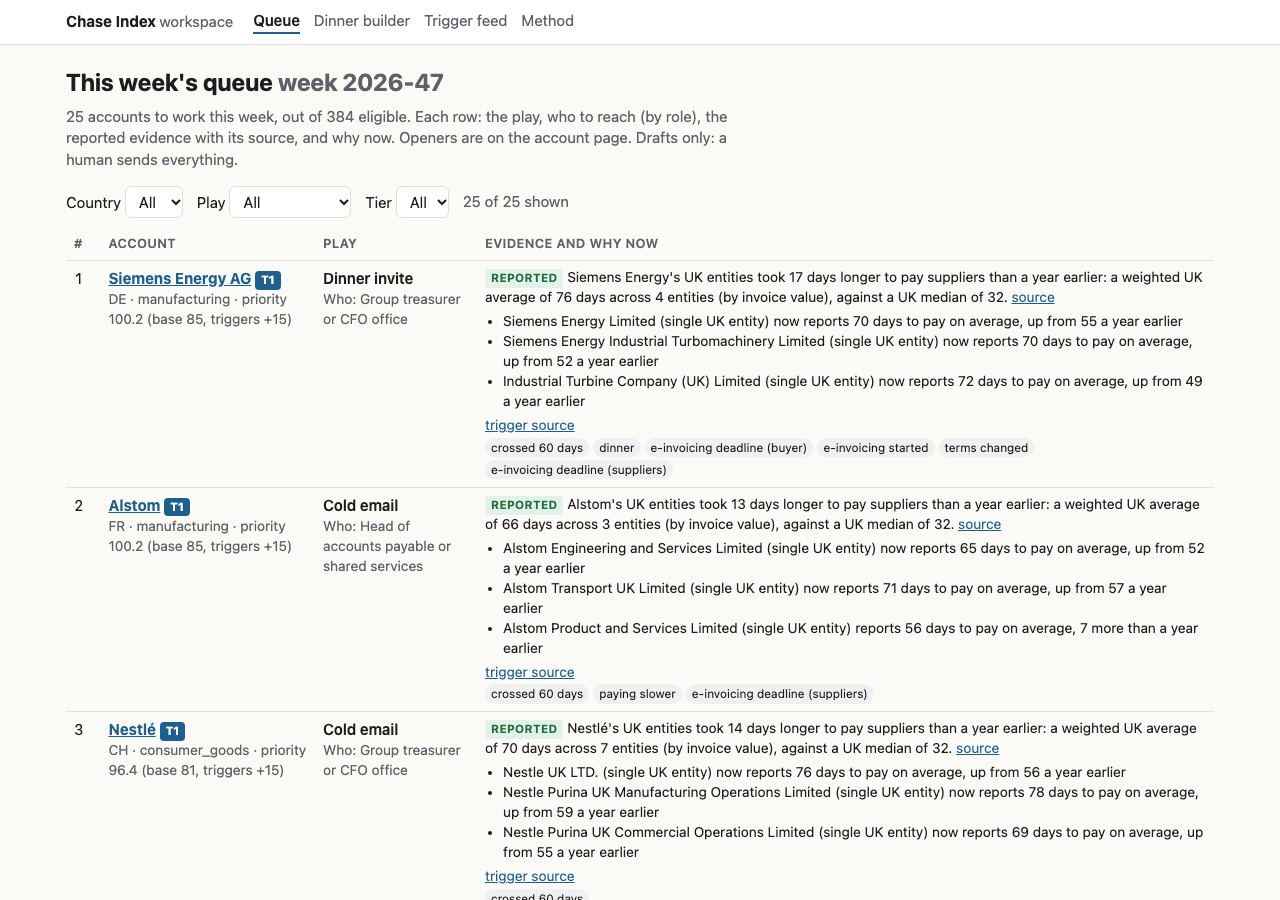
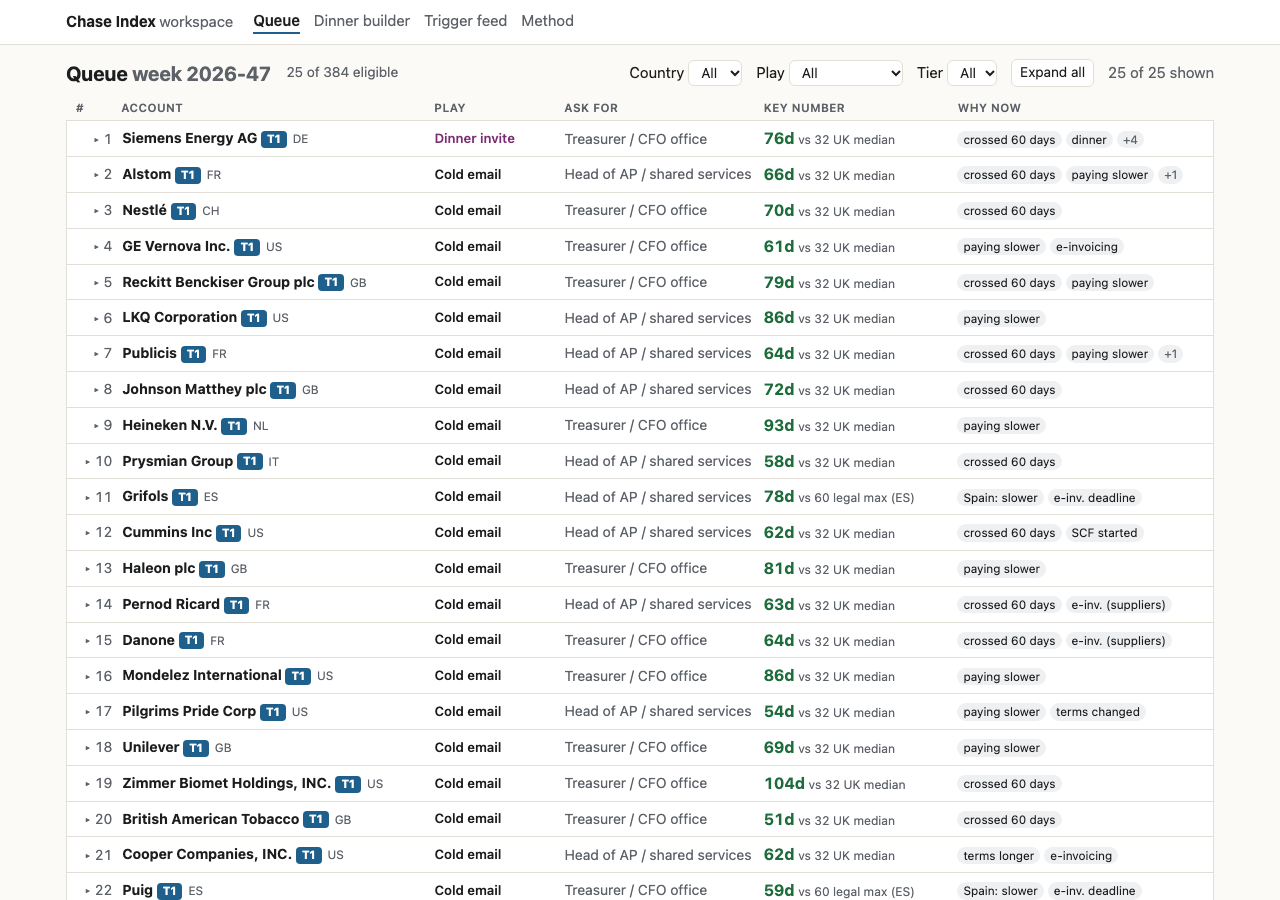
Workspace queue: compact rows that expand, like an internal tool
- One row per account: rank, company, tier, play, who to ask for, key number
  ("79d vs 32 UK median"), up to 2 short why-now tags. No intro paragraph.
- Click or Enter expands the evidence with its source, all why-now events and
  links, every trigger tag, the draft opener with a copy button, the role's
  reason, the priority breakdown and links to the account page and one-pager.
- Native details/summary, filters and expand-all; mobile layout, dark mode.
- Test for the row structure; new queue screenshots.

Changed region(s): [[0.0312, 0.0622, 0.9375, 1.0], [0.5, 0.0622, 0.5625, 0.0933]]

diff --git a/workspace/static/style.css b/workspace/static/style.css
@@ -47,3 +47,37 @@ dl.kinds dt{margin-top:10px}dl.kinds dd{margin:4px 0 0 0}
 tr.off{opacity:.45}
 @media (max-width:640px){table.data th,table.data td{padding:6px 5px}h1{font-size:1.25rem}}
 select{max-width:100%}.filters label{max-width:100%}
+
+/* queue: one compact row per account, click to expand */
+.qbar{display:flex;flex-wrap:wrap;align-items:center;gap:6px 16px;margin:14px 0 8px}.qbar h1{margin:0;font-size:1.25rem}
+.qbar .filters{margin:0 0 0 auto}.qbar select,.qbar button{padding:3px 8px;font-size:.86rem}
+.qhead,.qrow>summary{display:grid;grid-template-columns:2.2rem minmax(170px,1.6fr) 7.5rem minmax(120px,1fr) 11.5rem minmax(150px,1.3fr);gap:10px;align-items:center}
+.qhead{padding:4px 10px;font-size:.72rem;text-transform:uppercase;letter-spacing:.04em;color:var(--muted);font-weight:600;border-bottom:1px solid var(--line)}
+.qlist{border:1px solid var(--line);border-top:0;border-radius:0 0 8px 8px;background:var(--card)}
+.qrow{border-top:1px solid var(--line)}.qrow:first-child{border-top:0}
+.qrow>summary{list-style:none;cursor:pointer;padding:7px 10px;font-size:.88rem;line-height:1.3}
+.qrow>summary::-webkit-details-marker{display:none}
+.qrow>summary:hover{background:var(--bg)}.qrow>summary:focus-visible{outline:2px solid var(--accent);outline-offset:-2px}
+.qrow[open]>summary{background:var(--bg);border-bottom:1px dashed var(--line)}
+.c-rank{font-variant-numeric:tabular-nums;color:var(--muted);text-align:right}
+.c-rank::before{content:"\25B8";display:inline-block;margin-right:4px;color:var(--muted);transition:transform .12s}
+.qrow[open] .c-rank::before{transform:rotate(90deg)}
+.c-co{min-width:0;overflow:hidden;text-overflow:ellipsis;white-space:nowrap}.c-cc{margin-left:6px;font-size:.74rem;color:var(--muted)}
+.c-co .flag{margin-left:4px}
+.c-play{font-weight:600;font-size:.82rem}.play-dinner_invite{color:var(--est)}
+.c-who{color:var(--muted);white-space:nowrap;overflow:hidden;text-overflow:ellipsis}
+.c-key{font-variant-numeric:tabular-nums;white-space:nowrap}.c-key b{font-size:1rem}.c-key span{font-size:.76rem;color:var(--muted)}
+.c-key.rep b{color:var(--rep)}.c-key.prx b{color:var(--prx)}
+.c-tags{white-space:nowrap;overflow:hidden}.c-tags .chip{margin-top:0}.chip.more{color:var(--muted)}
+.qdetail{display:grid;grid-template-columns:minmax(0,1fr) 260px;gap:18px;padding:6px 14px 14px 46px;font-size:.9rem}
+.qdetail h3{font-size:.74rem;text-transform:uppercase;letter-spacing:.04em;color:var(--muted);margin:10px 0 4px}
+.qdetail p{margin:0 0 4px}.qdetail .why{margin:0}
+.opener{margin:0 0 6px;font-size:.9rem;background:var(--bg)}
+.qd-side{margin:10px 0 0;font-size:.86rem}.qd-side dt{font-size:.72rem;text-transform:uppercase;letter-spacing:.04em;color:var(--muted);margin-top:8px}.qd-side dd{margin:2px 0 0}
+@media (max-width:860px){
+ .qhead{display:none}.qlist{border-top:1px solid var(--line);border-radius:8px}
+ .qrow>summary{grid-template-columns:2rem 1fr auto;grid-template-areas:"r co key" "r play who" "r tags tags";gap:2px 8px}
+ .c-rank{grid-area:r;align-self:start}.c-co{grid-area:co;white-space:normal}.c-key{grid-area:key;text-align:right}.c-key span{display:none}
+ .c-play{grid-area:play}.c-who{grid-area:who;text-align:right}.c-tags{grid-area:tags;white-space:normal}
+ .qdetail{grid-template-columns:1fr;padding:6px 10px 12px}.qbar .filters{margin:0}
+}

diff --git a/workspace/static/app.js b/workspace/static/app.js
@@ -9,7 +9,7 @@
     var selects = box.querySelectorAll("select[data-filter]");
     var count = box.querySelector(".count");
     function apply() {
-      var n = 0, rows = table.querySelectorAll("tbody tr");
+      var n = 0, rows = table.querySelectorAll("tbody tr, .qrow");
       rows.forEach(function (tr) {
         var ok = true;
         selects.forEach(function (s) {
@@ -22,6 +22,21 @@
     }
     selects.forEach(function (s) { s.addEventListener("change", apply); });
     apply();
+  });
+
+  // queue: expand / collapse all, copy an opener
+  document.querySelectorAll("[data-toggle-all]").forEach(function (b) {
+    var list = document.querySelector(b.getAttribute("data-toggle-all"));
+    if (!list) return;
+    b.addEventListener("click", function () {
+      var items = list.querySelectorAll("details:not([hidden])");
+      var open = Array.prototype.some.call(items, function (d) { return !d.open; });
+      items.forEach(function (d) { d.open = open; });
+      b.textContent = open ? "Collapse all" : "Expand all";
+    });
+  });
+  document.querySelectorAll("button.copy[data-copy]").forEach(function (b) {
+    b.addEventListener("click", function () { copy(b.getAttribute("data-copy"), b); });
   });
 
   // dinner builder

diff --git a/workspace/build.py b/workspace/build.py
@@ -121,34 +121,83 @@ def load():
 
 
 # ---------------------------------------------------------------- pages
+ROW_TAG = {"einvoicing_mandate": "e-inv. deadline", "einvoicing_mandate_suppliers": "e-inv. (suppliers)",
+           "einvoicing_started": "e-invoicing", "sf_disclosed": "supplier finance", "terms_changed_other": "terms changed"}
+
+
+ROLE_SHORT = {"Head of accounts payable or shared services": "Head of AP / shared services",
+              "Group treasurer or CFO office": "Treasurer / CFO office", "CFO office": "CFO office"}
+
+
+def key_number(company_id: str) -> tuple[str, str, str]:
+    """Compact key number for the queue row: ('79d', 'vs 32 UK median', css class). The same figure the opener uses."""
+    hv = q.hook_variables(q._row(company_id))
+    days, kind = hv.get("days"), hv.get("evidence_kind")
+    if not days:
+        return "n/a", "", "prx"
+    if kind == "uk_reported":
+        return f"{days}d", "vs 32 UK median", "rep"
+    if kind == "es_reported":
+        return f"{days}d", "vs 60 legal max (ES)", "rep"
+    med = str(hv.get("benchmark") or "").split(" ")[0]
+    return f"{days}d", f"vs {med} sector median, DPO proxy", "prx"
+
+
 def build_queue(queue: dict, types: dict) -> str:
     rows, countries, plays = [], set(), set()
     for a in queue["accounts"]:
+        cid = a["company_id"]
         countries.add(a.get("country") or "")
         plays.add(a.get("play") or "")
         tt = [x for x in (a.get("why_now_types") or "").split("|") if x]
-        why = "".join(f"<li>{E(s)}</li>" for s in a["why_now"].split(" | "))
-        thin = ' <span class="flag" title="UK invoice value under 1% of group revenue">thin evidence</span>' if a.get("thin_evidence") else ""
-        rows.append(f"""<tr data-country="{E(a.get('country') or '')}" data-play="{E(a.get('play') or '')}" data-tier="{E(str(a.get('tier')))}">
-<td class="num">{a['queue_rank']}</td>
-<td><a href="accounts/{E(a['company_id'])}.html"><strong>{E(a['company'])}</strong></a> {tier_badge(a.get('tier'))}{thin}
-<div class="muted small">{E(a.get('country') or '')} · {E(a.get('sector') or '')} · priority {num(a.get('queue_priority'), 1)} ({E(a.get('priority_explained') or '')})</div></td>
-<td><span class="play">{E(PLAY_LABEL.get(a.get('play'), a.get('play') or ''))}</span><div class="small muted">Who: {E(a.get('who_role') or 'n/a')}</div></td>
-<td class="small"><p class="ev"><span class="lbl rep">Reported</span> {E(a.get('evidence') or '')} {link(a.get('evidence_url'))}</p>
-<ul class="why">{why}</ul>{('<div class="small">' + link(a.get('why_now_url'), 'trigger source') + '</div>') if a.get('why_now_url') else ''}
-<div class="chips">{''.join(f'<span class="chip" title="{E(types.get(x, x))}">{E(short_label(x))}</span>' for x in tt)}</div></td></tr>""")
+        tags = "".join(f'<span class="chip" title="{E(types.get(x, x))}">{E(ROW_TAG.get(x, short_label(x)))}</span>' for x in tt[:2])
+        more = f'<span class="chip more" title="{len(tt) - 2} more in the details">+{len(tt) - 2}</span>' if len(tt) > 2 else ""
+        kn, kvs, kcls = key_number(cid)
+        role = a.get("who_role") or "n/a"
+        thin = '<span class="flag" title="UK invoice value under 1% of group revenue">thin</span>' if a.get("thin_evidence") else ""
+        why = "".join(f"<li>{E(x)}</li>" for x in a["why_now"].split(" | "))
+        all_tags = "".join(f'<span class="chip" title="{E(types.get(x, x))}">{E(short_label(x))}</span>' for x in tt) or '<span class="muted">none</span>'
+        one_pager = (f' · <a href="one_pagers/{E(cid)}.html">one-pager</a>' if a.get("one_pager") else "")
+        rows.append(f"""<details class="qrow" data-country="{E(a.get('country') or '')}" data-play="{E(a.get('play') or '')}" data-tier="{E(str(a.get('tier')))}">
+<summary>
+<span class="c-rank">{a['queue_rank']}</span>
+<span class="c-co"><strong>{E(a['company'])}</strong> {tier_badge(a.get('tier'))}{thin}<span class="c-cc">{E(a.get('country') or '')}</span></span>
+<span class="c-play play-{E(a.get('play') or '')}">{E(PLAY_LABEL.get(a.get('play'), a.get('play') or ''))}</span>
+<span class="c-who" title="{E(role)}">{E(ROLE_SHORT.get(role, role))}</span>
+<span class="c-key {kcls}"><b>{E(kn)}</b> <span>{E(kvs)}</span></span>
+<span class="c-tags">{tags}{more}</span>
+</summary>
+<div class="qdetail">
+<div class="qd-main">
+<h3>Evidence</h3>
+<p><span class="lbl {'rep' if kcls == 'rep' else 'prx'}">{'Reported' if kcls == 'rep' else 'Computed proxy'}</span> {E(a.get('evidence') or '')} {link(a.get('evidence_url'))}</p>
+<h3>Why now</h3>
+<ul class="why">{why}</ul>
+<p class="small">{link(a.get('why_now_url'), 'trigger source') if a.get('why_now_url') else '<span class="muted">no dated public trigger source</span>'} · {a.get('triggers_live_n') or 0} live events</p>
+<div class="chips">{all_tags}</div>
+<h3>Opener <span class="muted small">draft, edit before sending</span></h3>
+<blockquote class="opener">{E(a.get('opener_draft') or '')}</blockquote>
+<button type="button" class="copy" data-copy="{E(a.get('opener_draft') or '')}">Copy opener</button>
+</div>
+<dl class="qd-side">
+<dt>Ask for</dt><dd>{E(role)}<div class="small muted">{E(a.get('who_role_reason') or '')}</div></dd>
+<dt>Play</dt><dd>{E(PLAY_LABEL.get(a.get('play'), a.get('play') or ''))}</dd>
+<dt>Priority</dt><dd>{num(a.get('queue_priority'), 1)} <span class="small muted">({E(a.get('priority_explained') or '')})</span></dd>
+<dt>Account</dt><dd>{E(a.get('country') or '')} · {E((a.get('sector') or '').replace('_', ' '))} · index rank {E(str(a.get('index_rank') or ''))}</dd>
+<dt>Links</dt><dd><a href="accounts/{E(cid)}.html">account page</a>{one_pager}</dd>
+</dl>
+</div>
+</details>""")
     sel = lambda name, vals, lab: (f'<label>{lab} <select data-filter="{name}"><option value="">All</option>'
                                    + "".join(f'<option value="{E(v)}">{E(PLAY_LABEL.get(v, v))}</option>' for v in sorted(vals) if v)
                                    + "</select></label>")
-    body = f"""<h1>This week's queue <span class="muted">week {E(queue['week'])}</span></h1>
-<p class="lede">{queue['count']} accounts to work this week, out of {queue['eligible_accounts']} eligible. Each row: the play, who to reach (by role),
-the reported evidence with its source, and why now. Openers are on the account page. Drafts only: a human sends everything.</p>
+    body = f"""<div class="qbar"><h1>Queue <span class="muted">week {E(queue['week'])}</span></h1>
+<span class="muted small">{queue['count']} of {queue['eligible_accounts']} eligible</span>
 <div class="filters" data-target="#queue">{sel('country', countries, 'Country')}{sel('play', plays, 'Play')}{sel('tier', {'1', '2', '3'}, 'Tier')}
-<span class="count muted" aria-live="polite"></span></div>
-<div class="tablewrap"><table id="queue" class="data"><thead><tr><th>#</th><th>Account</th><th>Play</th><th>Evidence and why now</th></tr></thead>
-<tbody>{''.join(rows)}</tbody></table></div>
-<p class="small muted">{E(queue['note'].replace(' who_named is present only when local private data exists.', ''))}
-Priority boosts from triggers are computed upstream and may include signals not shown here.</p>"""
+<button type="button" data-toggle-all="#queue">Expand all</button><span class="count muted" aria-live="polite"></span></div></div>
+<div class="qhead" aria-hidden="true"><span>#</span><span>Account</span><span>Play</span><span>Ask for</span><span>Key number</span><span>Why now</span></div>
+<div id="queue" class="qlist">{''.join(rows)}</div>
+<p class="small muted">Drafts only: a person edits and sends every message. {E(queue['note'].replace(' who_named is present only when local private data exists.', ''))}</p>"""
     return page("Queue", body, 0, "queue")
 
 

diff --git a/tests/test_workspace.py b/tests/test_workspace.py
@@ -80,3 +80,28 @@ def test_private_trigger_text_not_in_queue():
 def test_no_demo_data():
     q = json.loads((DIST / "data" / "queue.json").read_text())
     assert "SYNTHETIC" not in json.dumps(q)
+
+
+def test_queue_page_is_compact_rows_with_details():
+    """One compact row per account (rank, company, tier, play, role, key number, at most 2 tags), no intro paragraph,
+    and the evidence, its source, why-now events and the opener available in the expanded view."""
+    import re
+    h = (DIST / "index.html").read_text()
+    q = json.loads((DIST / "data" / "queue.json").read_text())
+    assert 'class="lede"' not in h
+    rows = re.findall(r'<details class="qrow".*?</details>', h, re.S)
+    assert len(rows) == len(q["accounts"]) > 0
+    for row, a in zip(rows, q["accounts"]):
+        summary = row.split("</summary>")[0]
+        assert re.search(r'class="c-key \w+"><b>\d+d</b> <span>vs ', summary), a["company"]
+        assert summary.count('class="chip"') <= 2 and "<p" not in summary and "<li" not in summary
+        detail = row.split("</summary>")[1]
+        if a.get("evidence_url"):
+            assert html_escape(a["evidence_url"]) in detail
+        assert html_escape(a["opener_draft"]) in detail and "Copy opener" in detail
+        assert f'accounts/{a["company_id"]}.html' in detail
+
+
+def html_escape(s):
+    import html
+    return html.escape(s)

diff --git a/workspace/README.md b/workspace/README.md
@@ -9,7 +9,7 @@ A static page set a sales person opens on Monday morning:
 
 | Page | What it shows |
 |---|---|
-| `index.html` (Queue) | This week's queue: account, tier, play (next best action), who to reach by role, reported evidence with source, why now. Filter by country, play, tier. |
+| `index.html` (Queue) | This week's queue, one compact row per account: rank, company, tier, play, who to ask for, key number vs benchmark, up to 2 why-now tags. Click a row (or Enter) to expand the evidence with its source, all why-now events with links, the draft opener with a copy button, priority breakdown and links to the account page and one-pager. Filter by country, play, tier; expand or collapse all. |
 | `accounts/<id>.html` | One page per queued and top-100 account: evidence with source links (Reported, Computed proxy), scores and their components, triggers, supplier finance and UK filing features, the opportunity range (labelled Estimate), draft opener, link to the one-pager. |
 | `dinners.html` | Per dinner city in `config/dinners.yaml` (real dates only in the gitignored `config/dinners.local.yaml`): shortlist with hooks. Tick or untick accounts, then copy as CSV or text (clipboard only). |
 | `triggers.html` | Live public triggers, newest first, filter by type. E-invoicing mandates say whether they bind the buyer or its small suppliers. |

diff --git a/evals/reports/install_test.md b/evals/reports/install_test.md
@@ -6,9 +6,9 @@ Not run, on purpose: `claude plugin marketplace add` and `claude plugin install`
 
 | Check | Command (in the clone) | Result |
 |---|---|---|
-| MCP server, the plugin's exact command | `uv run --quiet --project <clone> python <clone>/mcp/server.py` | 12 tools. First start 17 s with an empty uv cache (installs dependencies), second start 0.4 s |
+| MCP server, the plugin's exact command | `uv run --quiet --project <clone> python <clone>/mcp/server.py` | 12 tools. First start 20 s with an empty uv cache (installs dependencies), second start 0.4 s |
 | Skill entry point | `uv run --quiet chase-brief --queue 3` | OK, queue printed with openers and source links (1 s) |
-| Test suite | `uv run --quiet --extra build python -m pytest -q` | OK, 322 passed, 3 skipped in 32.91s (37 s) |
+| Test suite | `uv run --quiet --extra build python -m pytest -q` | OK, 323 passed, 3 skipped in 32.91s (38 s) |
 | Workspace build | `uv run --quiet python workspace/build.py` | OK, workspace: 100 account pages, 25 queued, 282 live public triggers, 4 dinner cities, 29 one-pagers -> workspace/dist (20 s) |
 | Plugin and marketplace manifests | `claude plugin validate .` | Passed |
 | Clone left clean (read-only tools) | `git status --porcelain` | clean |
